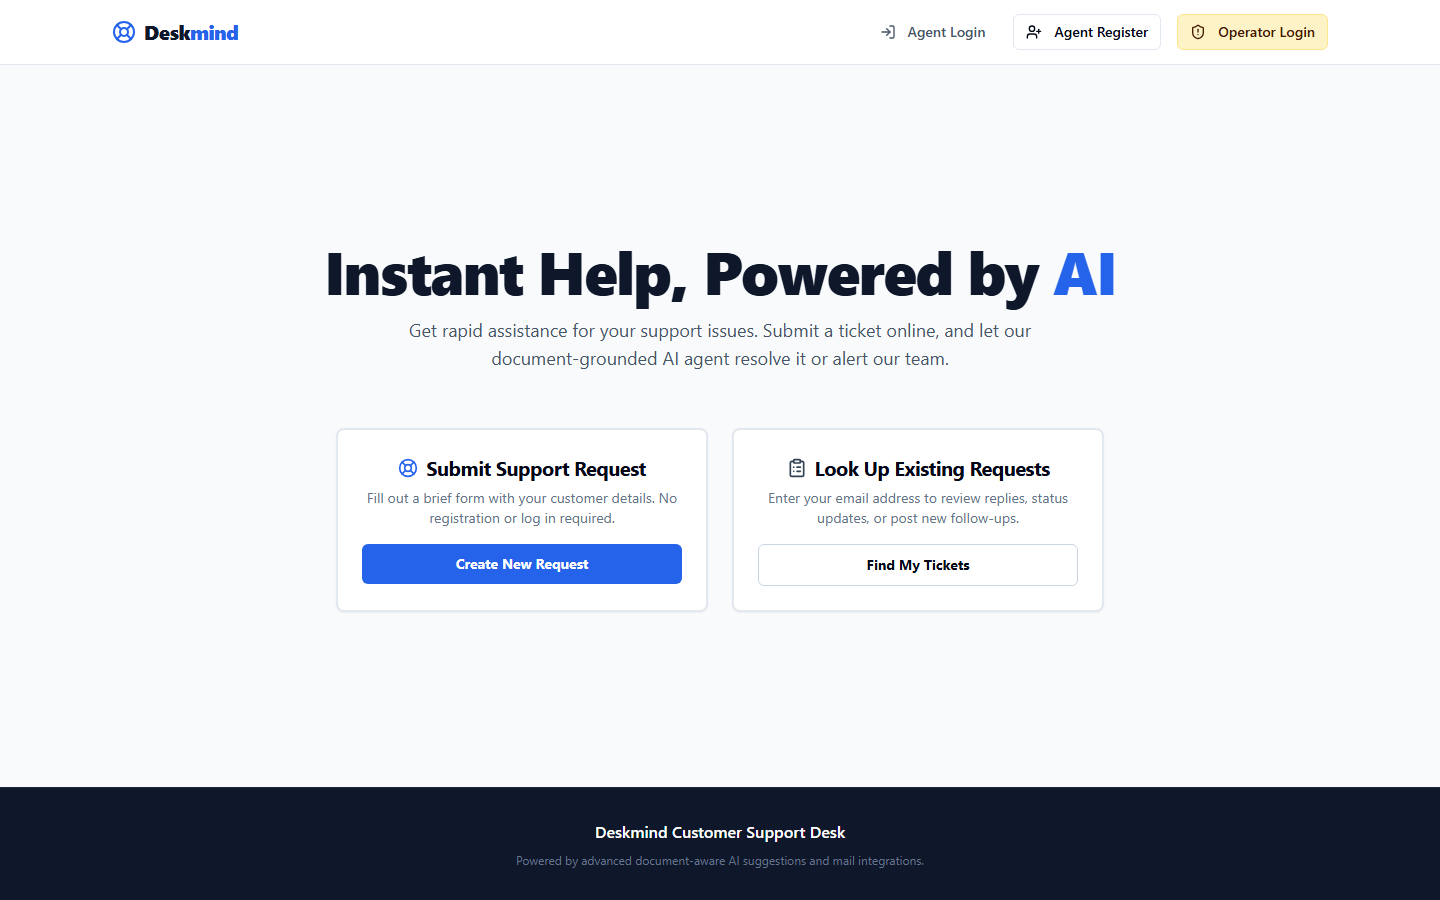
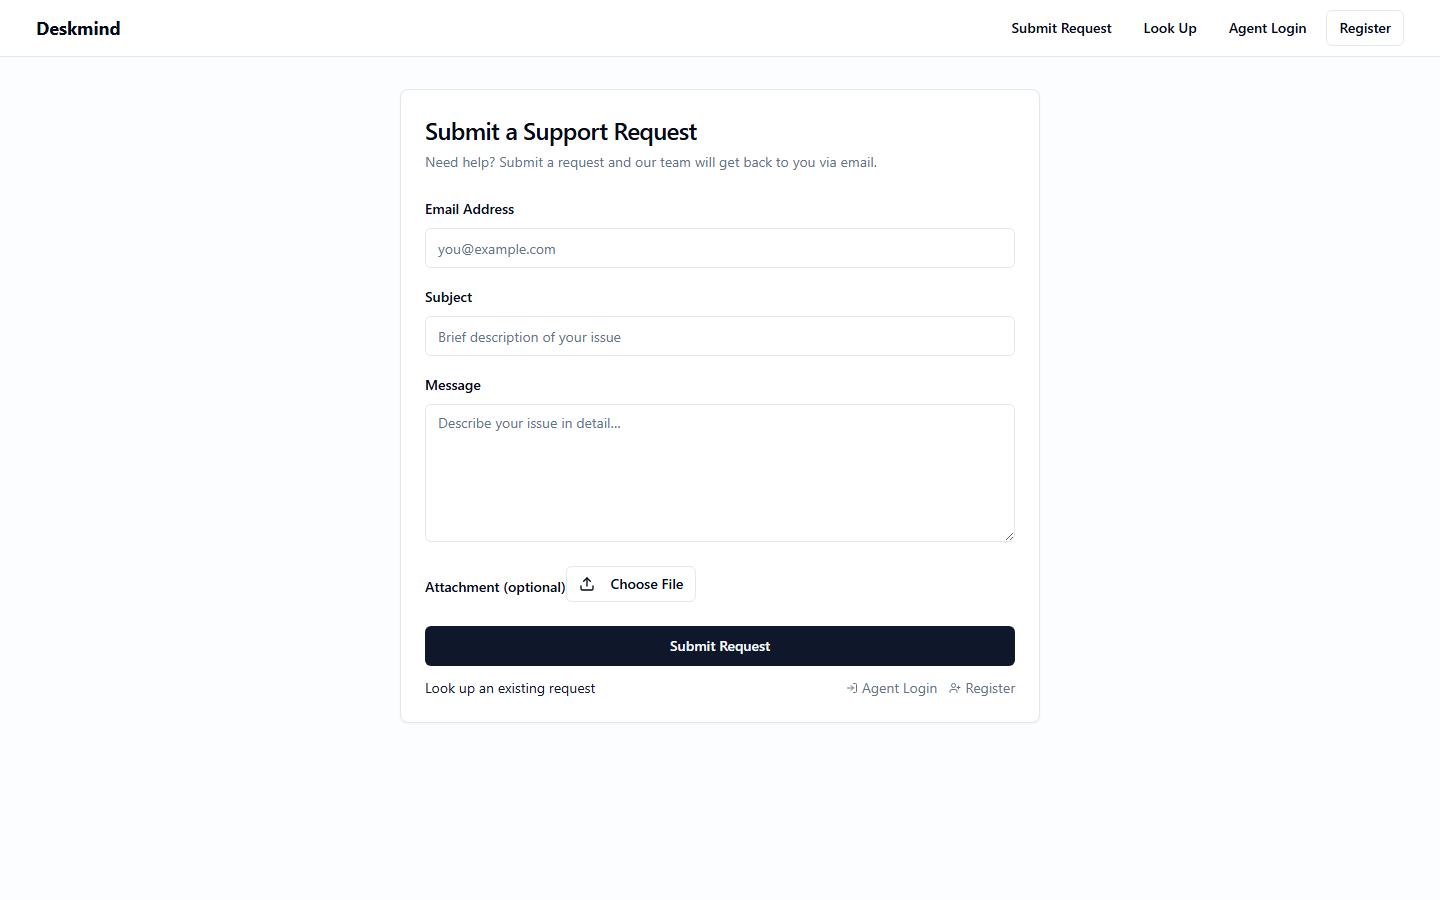
Demo slider: Stride live, fresh screenshots, repo buttons on every card
- Stride is live at stride.conceptual-ai.app (URL + screenshot); Deskmind
  URL moved to deskmind.conceptual-ai.app with a fresh root-page screenshot
- Every demo card gets Frontend/Backend GitHub repo buttons; Deskmind and
  Stride link to the exported repos, unlaunched demos render them disabled

diff --git a/src/components/landing/DemoCard.vue b/src/components/landing/DemoCard.vue
@@ -1,6 +1,6 @@
 <script setup lang="ts">
 import { computed, ref } from 'vue'
-import { ExternalLink, FileText, LifeBuoy, CreditCard } from 'lucide-vue-next'
+import { ExternalLink, FileText, Github, LifeBuoy, CreditCard } from 'lucide-vue-next'
 import type { DemoCardData } from './demos'
 import DemoPromptModal from './DemoPromptModal.vue'
 
@@ -22,6 +22,10 @@ const liveUrl = computed(() => activeVariant.value?.liveUrl ?? props.demo.liveUr
 const image = computed(() => activeVariant.value?.image ?? props.demo.image)
 
 const promptExcerpt = computed(() => props.demo.prompt.slice(0, 300))
+const repoLinks = computed(() => [
+  { label: 'Frontend repo', url: props.demo.repos.frontend },
+  { label: 'Backend repo', url: props.demo.repos.backend },
+])
 const demoHost = computed(() => {
   const url = liveUrl.value
   if (url) {
@@ -113,6 +117,25 @@ const demoHost = computed(() => {
           <ExternalLink :size="15" />
         </a>
         <span v-else class="card-btn soon" aria-disabled="true">Launching soon</span>
+      </div>
+
+      <div class="repo-actions">
+        <template v-for="repo in repoLinks" :key="repo.label">
+          <a
+            v-if="repo.url"
+            :href="repo.url"
+            target="_blank"
+            rel="noopener noreferrer"
+            class="repo-btn"
+          >
+            <Github :size="14" />
+            {{ repo.label }}
+          </a>
+          <span v-else class="repo-btn disabled" aria-disabled="true" title="Repos go public at launch">
+            <Github :size="14" />
+            {{ repo.label }}
+          </span>
+        </template>
       </div>
     </div>
 
@@ -377,6 +400,40 @@ const demoHost = computed(() => {
 .card-btn.soon {
   border: 1px dashed var(--glass-border);
   color: var(--text-dim);
+  cursor: default;
+}
+
+.repo-actions {
+  display: flex;
+  align-items: center;
+  gap: 0.5rem;
+  flex-wrap: wrap;
+}
+
+.repo-btn {
+  display: inline-flex;
+  align-items: center;
+  gap: 0.4rem;
+  min-height: 36px;
+  padding: 0.35rem 0.75rem;
+  border-radius: 10px;
+  border: 1px solid var(--glass-border);
+  background: var(--glass-bg);
+  color: var(--text-dim);
+  font-size: 0.75rem;
+  font-weight: 700;
+  text-decoration: none;
+  transition: var(--transition);
+}
+
+a.repo-btn:hover {
+  background: var(--input-bg);
+  color: var(--text);
+}
+
+.repo-btn.disabled {
+  border-style: dashed;
+  opacity: 0.55;
   cursor: default;
 }
 </style>

diff --git a/src/components/landing/demos.ts b/src/components/landing/demos.ts
@@ -18,6 +18,12 @@ export interface DemoVariant {
   image: string | null
 }
 
+export interface DemoRepos {
+  /** GitHub URLs of the exported repos; null renders a disabled button until launch. */
+  frontend: string | null
+  backend: string | null
+}
+
 export interface DemoCardData {
   slug: string
   name: string
@@ -28,6 +34,7 @@ export interface DemoCardData {
   tryList: string[]
   image: string | null
   liveUrl: string | null
+  repos: DemoRepos
   testCard?: boolean
   supportHub?: boolean
   variants?: DemoVariant[]
@@ -43,7 +50,11 @@ export const DEMOS: DemoCardData[] = [
     badges: ['AI triage & drafts', 'RAG over your docs', 'Two-way email', 'Operator admin', 'File uploads'],
     supportHub: true,
     image: '/demos/deskmind.png',
-    liveUrl: 'https://deskmind.rdavislee.deno.net',
+    liveUrl: 'https://deskmind.conceptual-ai.app',
+    repos: {
+      frontend: 'https://github.com/rdavislee/Deskmind-frontend',
+      backend: 'https://github.com/rdavislee/Deskmind-backend',
+    },
     tryList: [
       'Submit a real support request — this is ConceptualAI\'s actual support desk, so it reaches us',
       'Ask anything about ConceptualAI — answers are grounded in our help docs and arrive as a real email',
@@ -68,6 +79,7 @@ Agents get a notification when a new High or Urgent request arrives.`,
     badges: ['AI booking assistant', 'Scheduling & reservations', 'Messaging', 'Reviews', 'Media'],
     image: null,
     liveUrl: null,
+    repos: { frontend: null, backend: null },
     tryList: [
       'Scroll the photo grid and filter by category',
       'Type "find me a pottery class next Saturday morning" — the assistant finds and books a slot',
@@ -95,6 +107,7 @@ A host can delete one of their listings. When a listing is deleted, all of its t
     testCard: true,
     image: null,
     liveUrl: null,
+    repos: { frontend: null, backend: null },
     variants: [
       {
         key: 'v1',
@@ -142,8 +155,12 @@ A user gets a notification when someone likes their post, comments on their post
     tagline:
       'An AI training coach that shows its sources: web-research-grounded plans that adapt to your daily feedback.',
     badges: ['Live web research + citations', 'AI plan adjustments', 'Daily check-ins', 'Notifications'],
-    image: null,
-    liveUrl: null,
+    image: '/demos/stride.png',
+    liveUrl: 'https://stride.conceptual-ai.app',
+    repos: {
+      frontend: 'https://github.com/rdavislee/Stride-frontend',
+      backend: 'https://github.com/rdavislee/Stride-backend',
+    },
     tryList: [
       'Set a goal like "run a sub-20-minute 5K by October 1st" with your stats',
       'The calendar fills with a day-by-day plan — open a day to see the cited sources behind it',
@@ -172,6 +189,7 @@ The user gets a notification when their plan is generated and whenever the plan 
     testCard: true,
     image: null,
     liveUrl: null,
+    repos: { frontend: null, backend: null },
     tryList: [
       'Add 2 of an item with stock 3 to your cart and check out with the Stripe test card',
       'Stock drops to 1 and two confirmation emails go out — customer and owner',